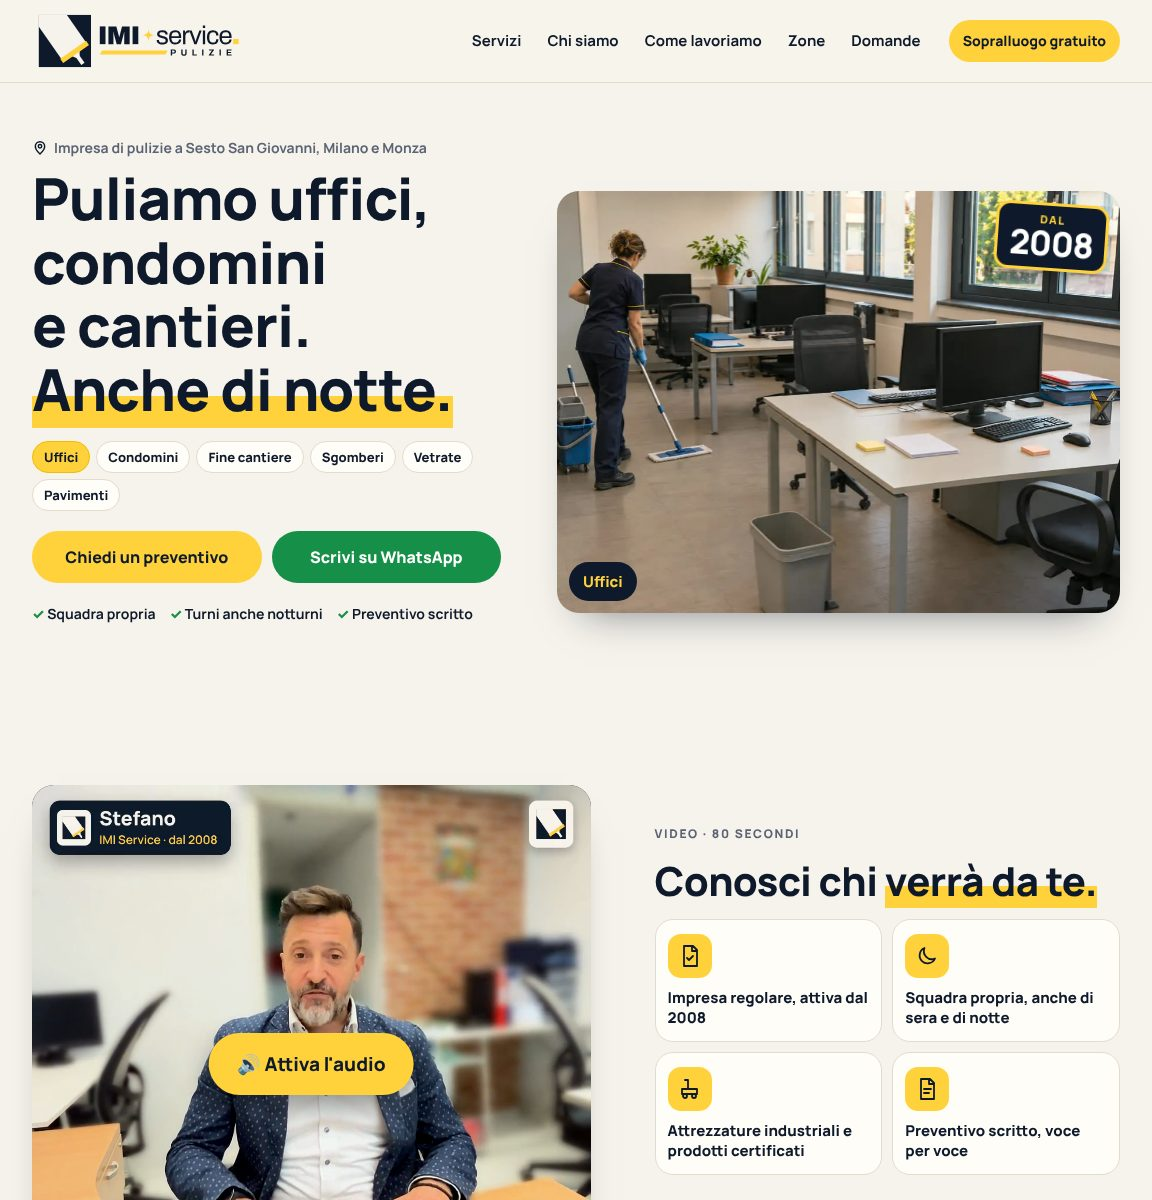
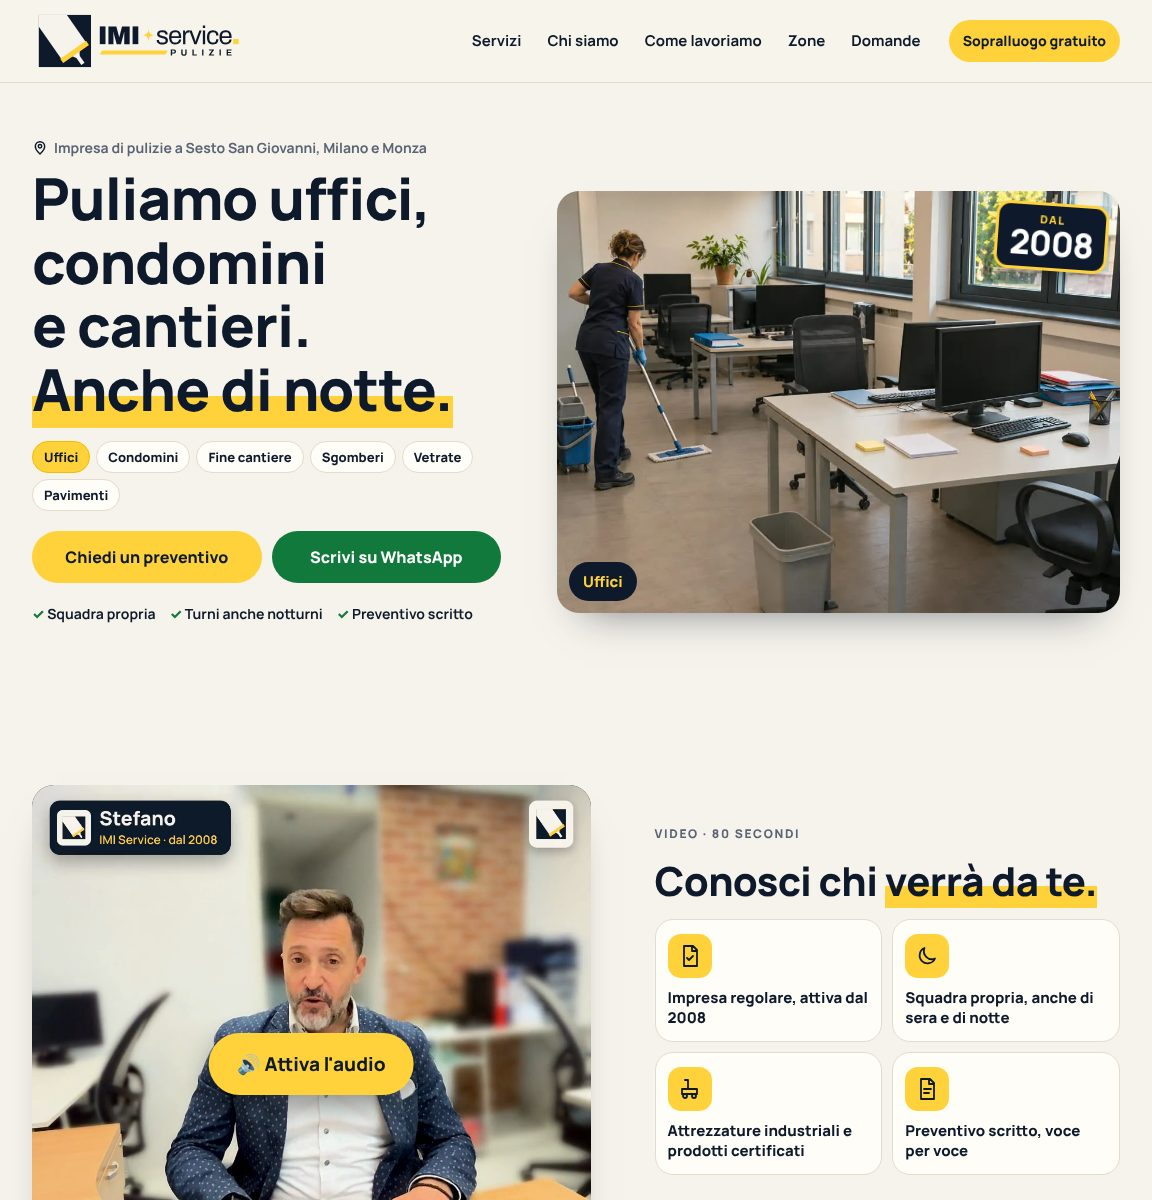
Accessibilità: verde più scuro per il contrasto (#168F48 -> #12793D)
Contrasto del testo bianco sul verde da 4,1:1 a 5,5:1 (WhatsApp, comune selezionato, toggle cookie);
immagini dell'apertura rifatte con il nuovo colore.

Claude-Session: https://claude.ai/code/session_01NCWZ2HutzFLhFFi9Pu68i2

diff --git a/assets/js/consenso.js b/assets/js/consenso.js
@@ -51,7 +51,7 @@
 #ck label small { grid-column: 1; color: #5B6474; font-size: 12.5px; line-height: 1.4; }
 #ck input { grid-row: 1 / span 2; grid-column: 2; align-self: center; width: 40px; height: 22px; appearance: none; -webkit-appearance: none; border-radius: 99px; background: #D5CDBD; position: relative; cursor: pointer; transition: background .2s; margin: 0; }
 #ck input::after { content: ""; position: absolute; top: 3px; left: 3px; width: 16px; height: 16px; border-radius: 50%; background: #fff; transition: transform .2s; }
-#ck input:checked { background: #168F48; }
+#ck input:checked { background: #12793D; }
 #ck input:checked::after { transform: translateX(18px); }
 #ck input:disabled { opacity: .55; cursor: default; }
 #ck input:focus-visible, #ck button:focus-visible { outline: 3px solid #FFD23C; outline-offset: 2px; }

diff --git a/index.html b/index.html
@@ -396,7 +396,7 @@
   --cream: #F6F3EC;
   --paper: #FFFDF8;
   --yellow: #FFD23C;
-  --green: #168F48;
+  --green: #12793D;
   --muted: #5B6474;
   --line: #E3DCCD;
   --font: "Manrope", system-ui, -apple-system, "Segoe UI", sans-serif;
